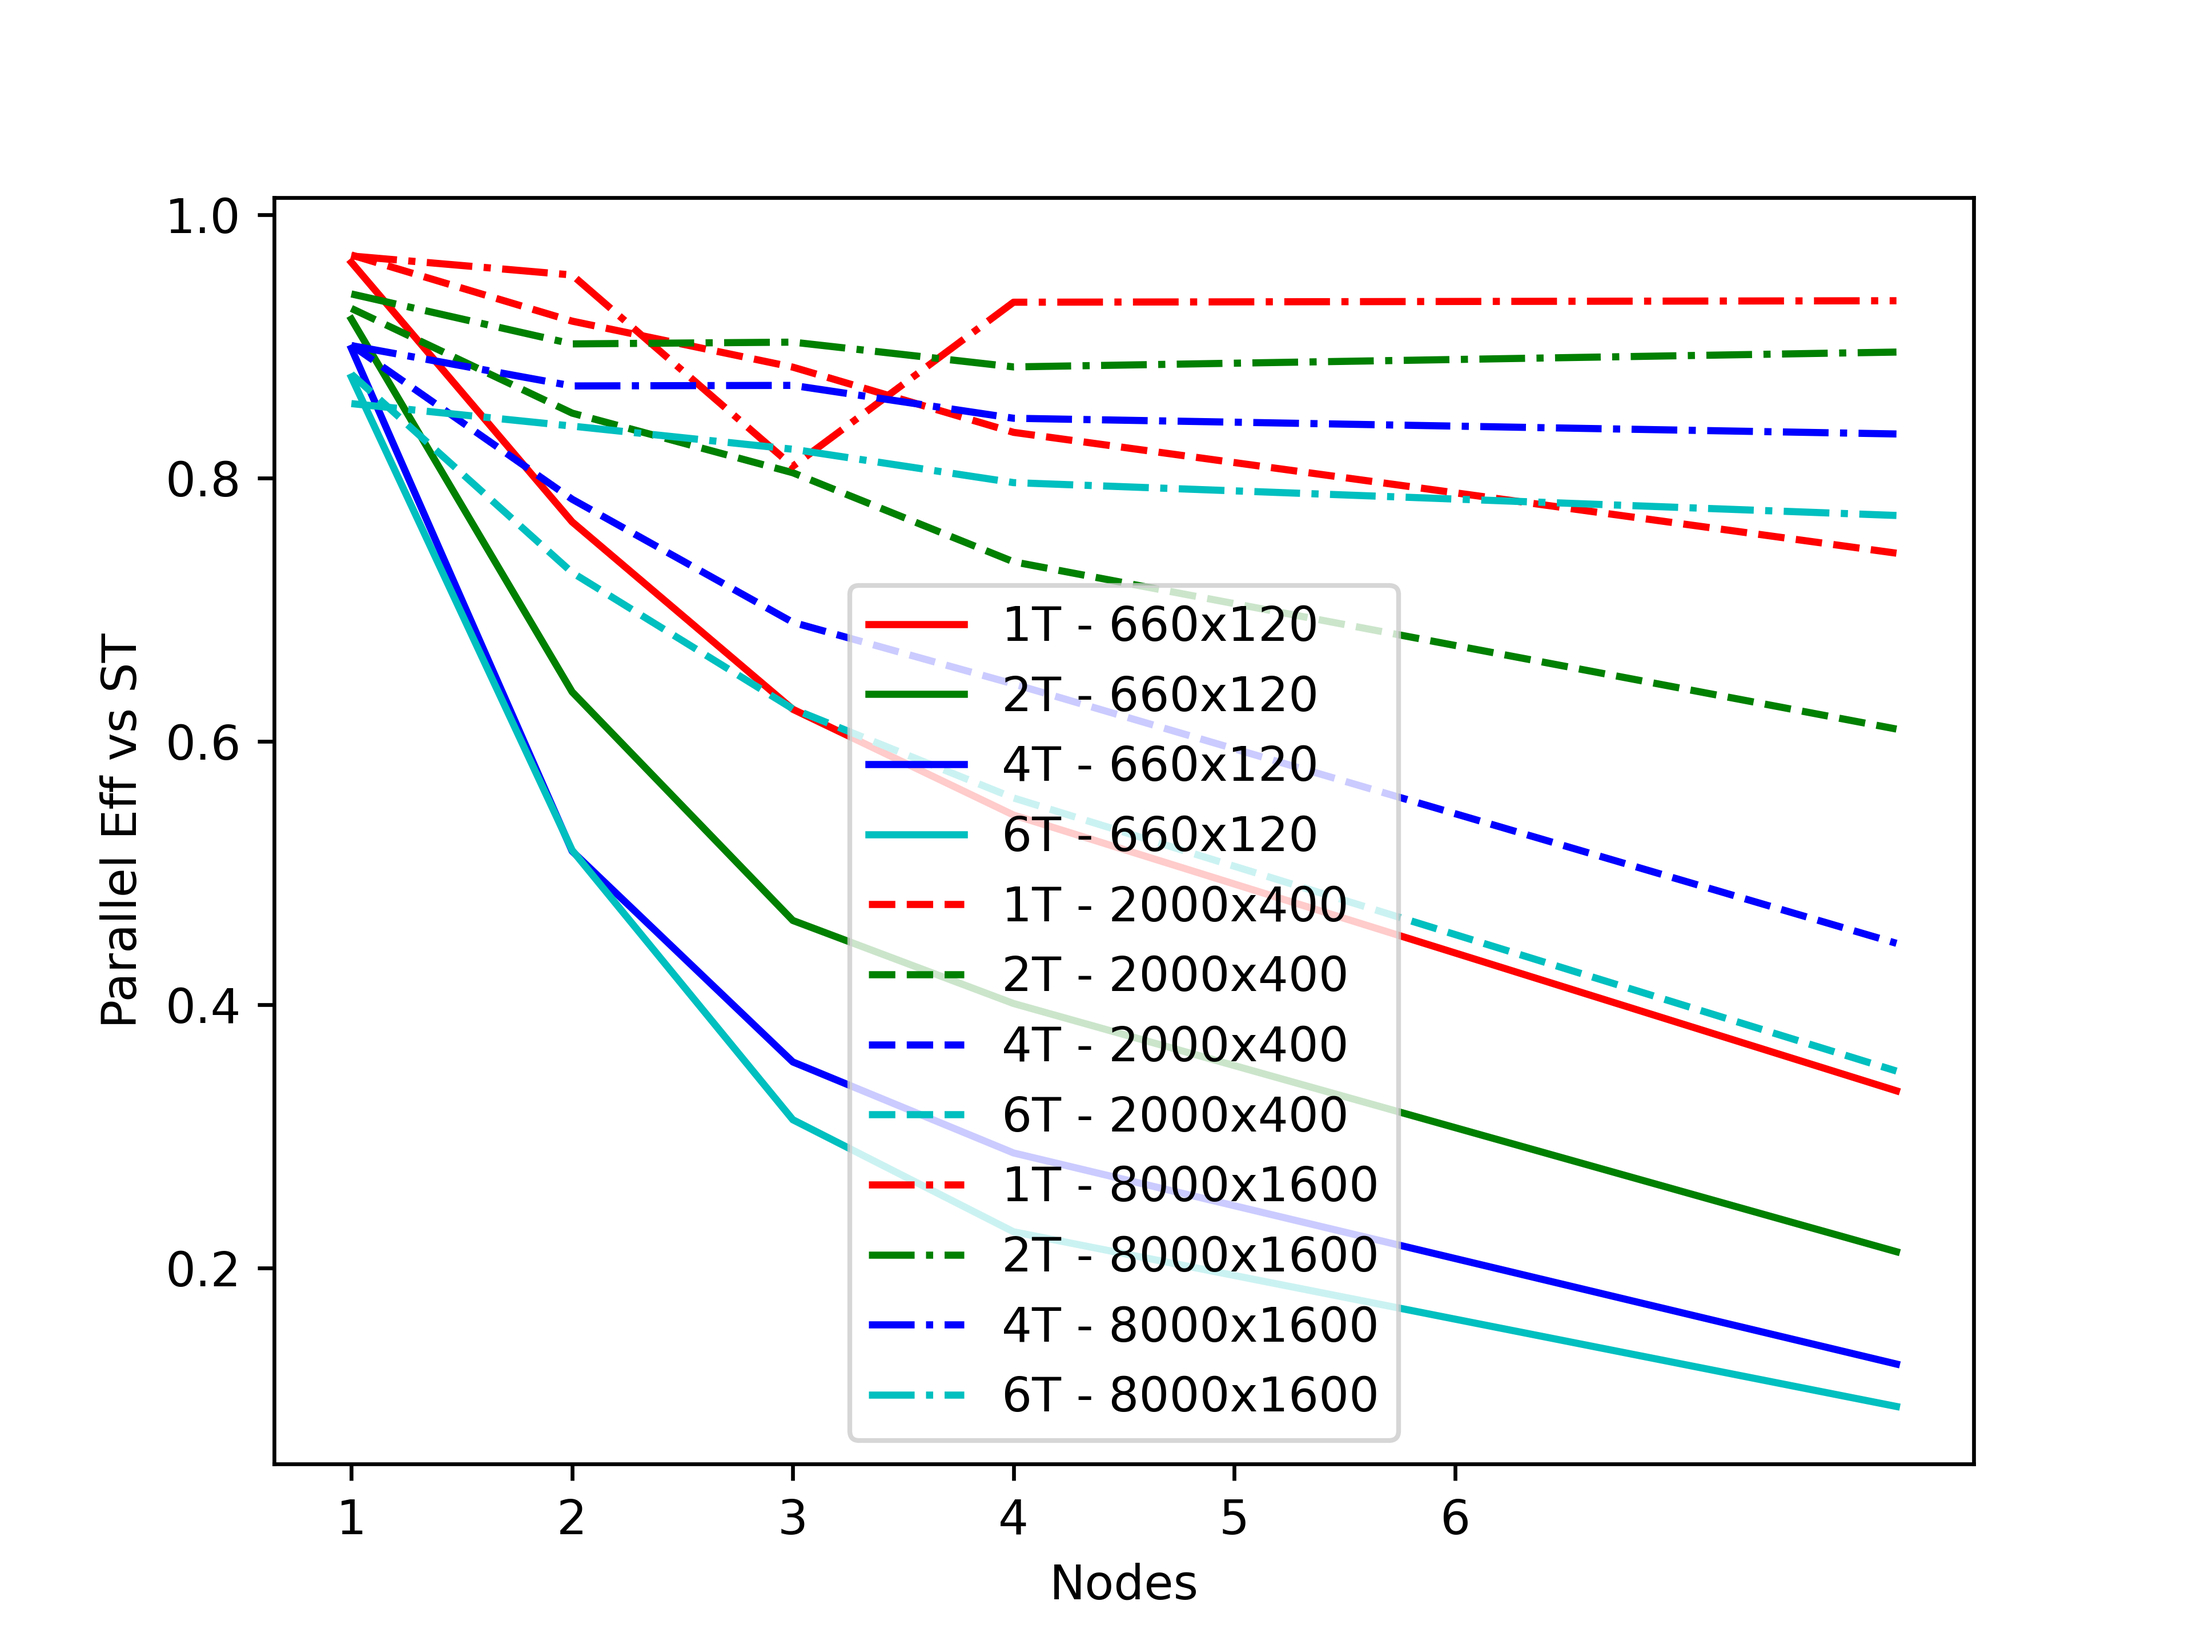
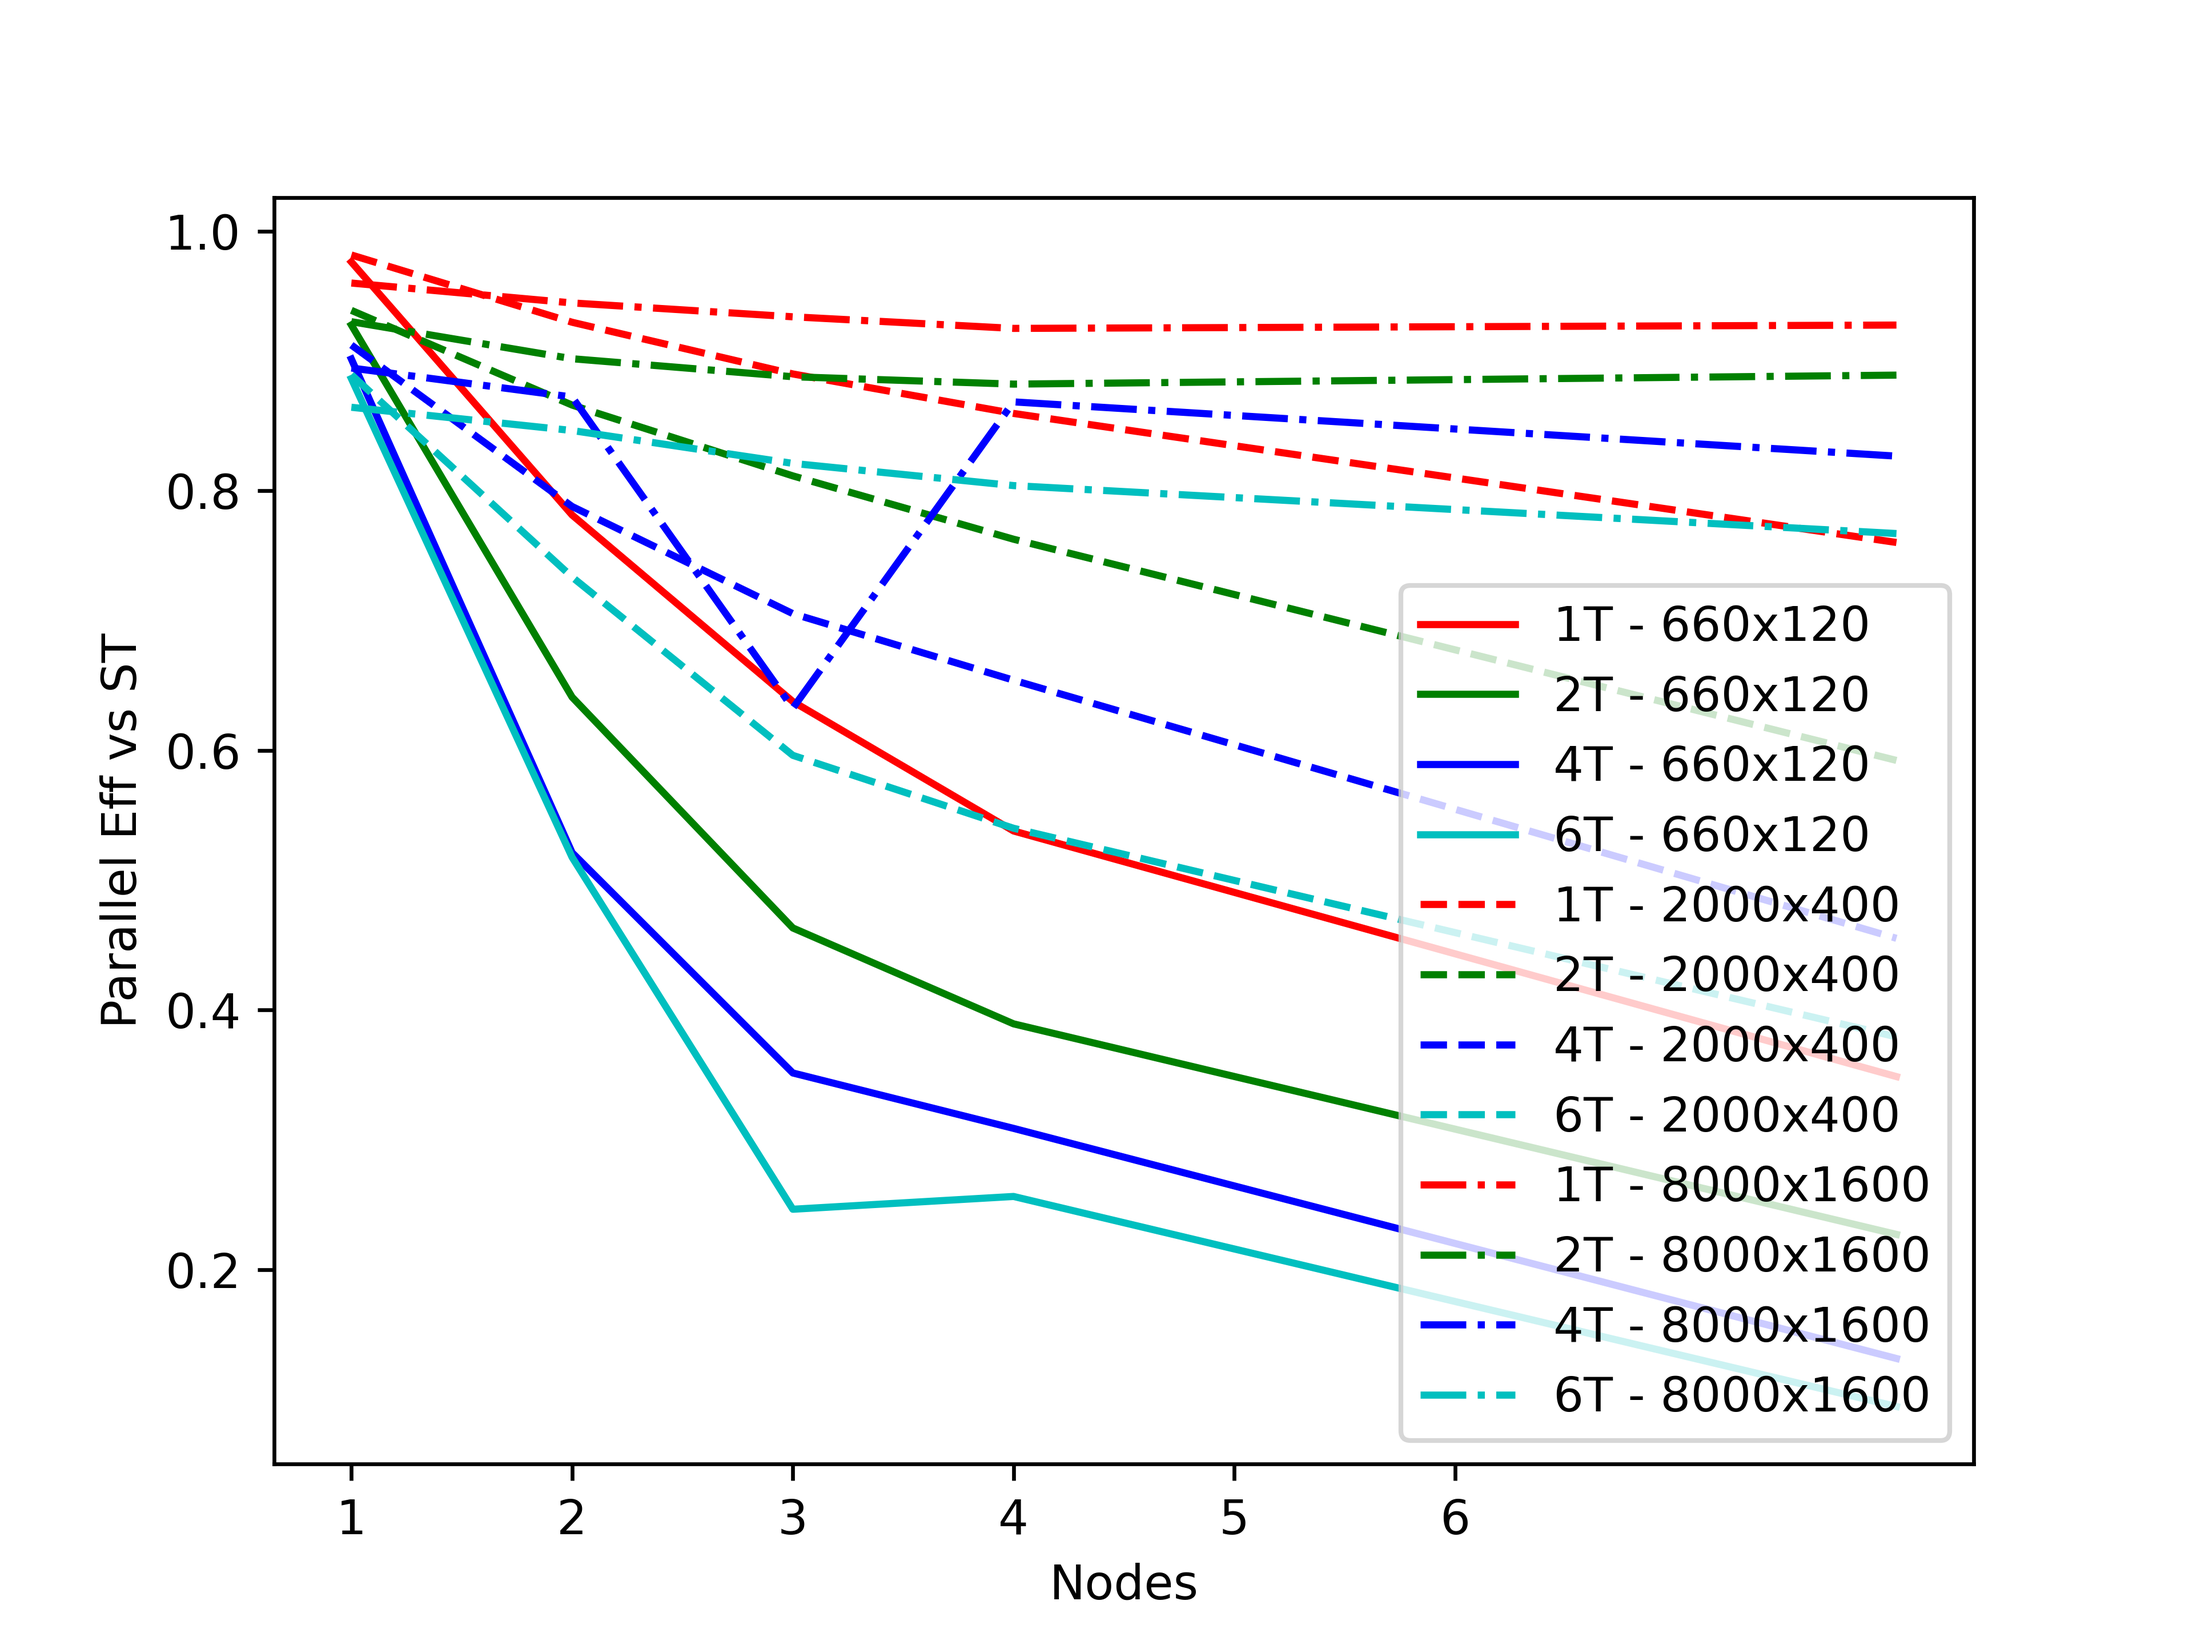
stuff because graph broken because timing data

diff --git a/cfd/analysis.py b/cfd/analysis.py
@@ -234,13 +234,17 @@ def plot_graphs():
     all_df = pd.concat(dfs, axis=0, ignore_index=True)
     # print(all_df)
     all_df["loop_time_taken"] = all_df[["timestep_time_taken", "compute_velocity_time_taken", "rhs_time_taken", "possion_time_taken", "update_velocity_time_taken", "boundary_time_taken"]].sum(axis=1)
-    plot_time_against_thread_count(all_df)
-    plot_speed_up_against_thread_count(all_df)
-    plot_speed_up_against_dimensions(all_df)
-    plot_speed_up_against_sbatch_nodes(all_df)
-    plot_parallel_efficiency_against_thread_count(all_df)
-    plot_parallel_efficiency_against_sbatch_nodes(all_df)
-    plot_parallel_efficiency_against_dimensions(all_df)
+    # plot_time_against_thread_count(all_df)
+    # plot_speed_up_against_thread_count(all_df)
+    # plot_speed_up_against_dimensions(all_df)
+    # plot_speed_up_against_sbatch_nodes(all_df)
+    # plot_parallel_efficiency_against_thread_count(all_df)
+    # plot_parallel_efficiency_against_sbatch_nodes(all_df)
+    # plot_parallel_efficiency_against_dimensions(all_df)
+
+    # plot_possion_loop_time_against_thread_count(all_df)
+    plot_possion_loop_parallel_efficiency_against_thread_count(all_df)
+    # plot_sync_time_against_sbatch_nodes(all_df)
 
 def plot_time_against_thread_count(all_df):
     df = all_df.groupby(["sbatch_nodes", "omp_threads", "x", "y"], as_index=False).mean()
@@ -311,6 +315,54 @@ def plot_parallel_efficiency_against_thread_count(all_df):
     plt.xlabel("OMP Threads")
     plt.ylabel("Parallel Eff vs ST")
     plt.savefig("plots/parallel_efficiency_against_thread_count.png", dpi=600)
+    plt.clf()
+
+def plot_possion_loop_time_against_thread_count(all_df):
+    df = all_df.groupby(["sbatch_nodes", "omp_threads", "x", "y"], as_index=False).mean()
+    colours = ["r", "g", "b", "c", "m", "k", "y"]
+    line_styles = ["-", "--", "-.", ":", ":"]
+    df_sn = df[df["sbatch_nodes"] == 1]
+    for (x, y), line_style in zip(dimensions_plot, line_styles):
+        dim_df = df_sn[df_sn["x"] == x]
+        dim_df = dim_df[dim_df["y"] == y]
+        plt.plot(dim_df["omp_threads"], dim_df["possion_p_loop_time_taken"], "r" + line_style, label=f"p - {x}x{y}")
+        plt.plot(dim_df["omp_threads"], dim_df["possion_res_loop_time_taken"], "b" + line_style, label=f"res - {x}x{y}")
+
+    plt.legend()
+    plt.xticks(omp_num_threads_tested)
+    plt.xlabel("OMP Threads")
+    plt.ylabel("Time (s)")
+    plt.savefig("plots/possion_loop_time_against_thread_count.png", dpi=600)
+    plt.clf()
+
+def plot_possion_loop_parallel_efficiency_against_thread_count(all_df):
+    df = all_df.groupby(["sbatch_nodes", "omp_threads", "x", "y"], as_index=False).mean()
+    colours = ["r", "g", "b", "c", "m", "k", "y"]
+    line_styles = ["-", "--", "-.", ":", ":"]
+    df_sn = df[df["sbatch_nodes"] == 1]
+    for (x, y), line_style in zip(dimensions_plot, line_styles):
+        dim_df = df_sn[df_sn["x"] == x]
+        dim_df = dim_df[dim_df["y"] == y]
+        df_st = dim_df[dim_df["omp_threads"] == 0]
+        thread_nums = np.array(dim_df["omp_threads"]).copy()
+        print(dim_df["omp_threads"], "potato")
+        thread_nums[0] = 1
+        print(thread_nums)
+        print(df_st["possion_p_loop_time_taken"])
+        print(dim_df["possion_p_loop_time_taken"])
+        print("HI")
+        print((df_st["possion_p_loop_time_taken"].iloc[0] / dim_df["possion_p_loop_time_taken"]) / thread_nums)
+        print(np.array((df_st["possion_p_loop_time_taken"].iloc[0] / dim_df["possion_p_loop_time_taken"]) / thread_nums))
+        print((df_st["possion_res_loop_time_taken"].iloc[0] / dim_df["possion_res_loop_time_taken"]) / thread_nums)
+        print(np.array((df_st["possion_res_loop_time_taken"].iloc[0] / dim_df["possion_res_loop_time_taken"]) / thread_nums))
+        plt.plot(dim_df["omp_threads"], (df_st["possion_p_loop_time_taken"].iloc[0] / dim_df["possion_p_loop_time_taken"]) / thread_nums, "r" + line_style, label=f"p - {x}x{y}")
+        plt.plot(dim_df["omp_threads"], (df_st["possion_res_loop_time_taken"].iloc[0] / dim_df["possion_res_loop_time_taken"]) / thread_nums, "b" + line_style, label=f"res - {x}x{y}")
+
+    plt.legend()
+    plt.xticks(omp_num_threads_tested)
+    plt.xlabel("OMP Threads")
+    plt.ylabel("Parallel Efficiency")
+    plt.savefig("plots/possion_loop_parallel_efficiency_against_thread_count.png", dpi=600)
     plt.clf()
 
 def plot_speed_up_against_dimensions(all_df):
@@ -413,8 +465,27 @@ def plot_parallel_efficiency_against_sbatch_nodes(all_df):
     plt.savefig("plots/parallel_efficiency_against_sbatch_nodes.png", dpi=600)
     plt.clf()
 
+def plot_sync_time_against_sbatch_nodes(all_df):
+    df = all_df.groupby(["sbatch_nodes", "omp_threads", "x", "y"], as_index=False).mean()
+    df_par = df[df["omp_threads"] > 0]
+    # print(df)
+    colours = ["r", "g", "b", "c", "m", "k", "y"]
+    line_styles = ["-", "--", "-.", ":", ":"]
+    for (x, y), line_style in zip(dimensions_plot, line_styles):
+        dim_df = df_par[df_par["x"] == x]
+        dim_df = dim_df[dim_df["y"] == y]
+        for omp_threads, colour in zip(omp_num_threads_plot, colours):
+            node_df = dim_df[dim_df["omp_threads"] == omp_threads]
+            plt.plot(node_df["sbatch_nodes"], node_df["sync_time_taken"], colour + line_style, label=f"{omp_threads}T - {x}x{y}")
+
+    plt.legend()
+    plt.xticks(omp_num_threads_tested)
+    plt.xlabel("Nodes")
+    plt.ylabel("Time syncing (s)")
+    plt.savefig("plots/sync_time_against_sbatch_nodes.png", dpi=600)
+    plt.clf()
 
 if __name__ == "__main__":
-    subprocess.run(["bash", "./clean_build.sh"])
-    collect_data()
+    # subprocess.run(["bash", "./clean_build.sh"])
+    # collect_data()
     plot_graphs()
